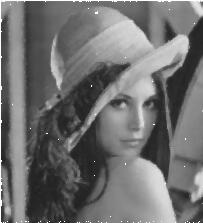
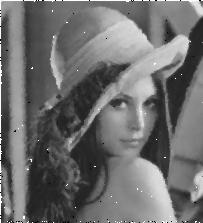
change the architecture of whole codes

diff --git a/Denoising/Denoise_Space_Domain.py b/Denoising/Denoise_Space_Domain.py
@@ -4,7 +4,7 @@ import numpy as np
 import tools.tools as T
 
 origin_path = "Imgs/lena.jpg"
-img_path = "Imgs/Image_salt.jpg"
+img_path = "Imgs/Image_s&p.jpg"
 img_save_path = "Imgs/"
 logfile_path = "Imgs/PSNR.txt"
 f = open(logfile_path,"w",encoding='utf=8')
